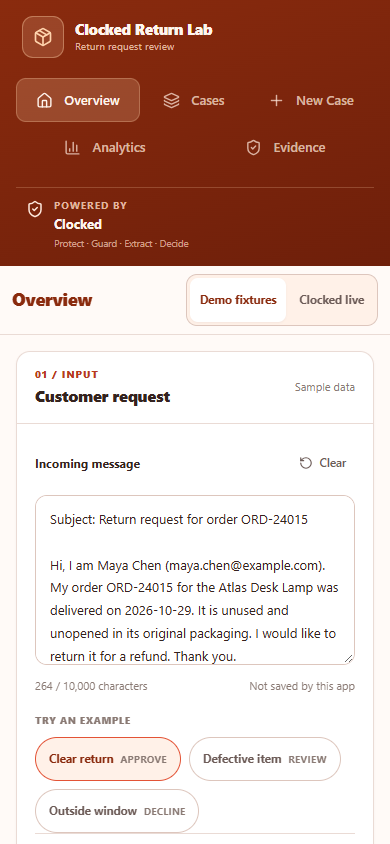
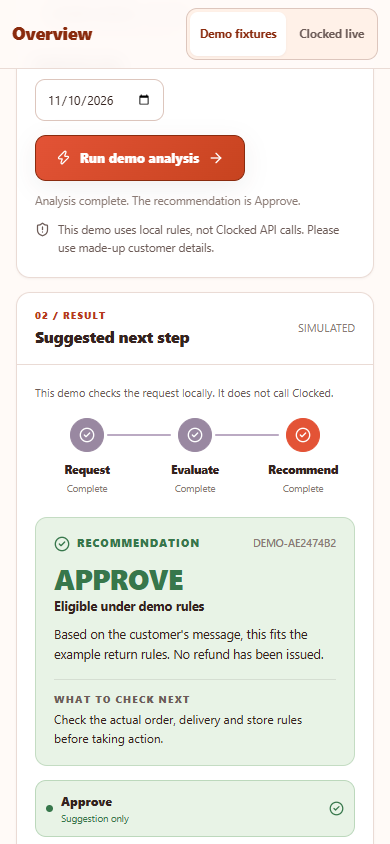
Show the mobile result and clarify live configuration

diff --git a/README.md b/README.md
@@ -72,7 +72,7 @@ Live mode stays switched off until you also set four operator values in `.env.lo
 | Variable | Purpose |
 |---|---|
 | `RETURNLAB_LIVE_ENABLED=YES` | Turns paid live analysis on. Anything else keeps it off. |
-| `CLOCKED_ROTATED_KEY_CONFIRMED=YES` | Confirms the key was rotated after the earlier exposure. The app cannot check this itself. |
+| `CLOCKED_ROTATED_KEY_CONFIRMED=YES` | Confirms the configured API key has been rotated and is approved for live use. The app cannot verify this itself. |
 | `CLOCKED_PROVIDER_HARD_CAP_CONFIRMED=YES` | Confirms a hard spending limit exists in the Clocked account. |
 | `CLOCKED_PROVIDER_HARD_CAP_USD` | The attested limit. It must be 0.05 or lower. |
 
